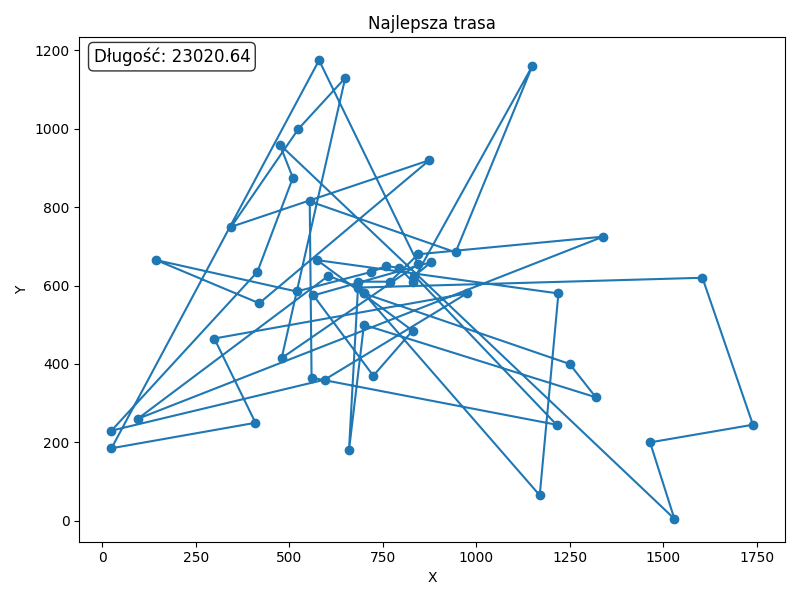
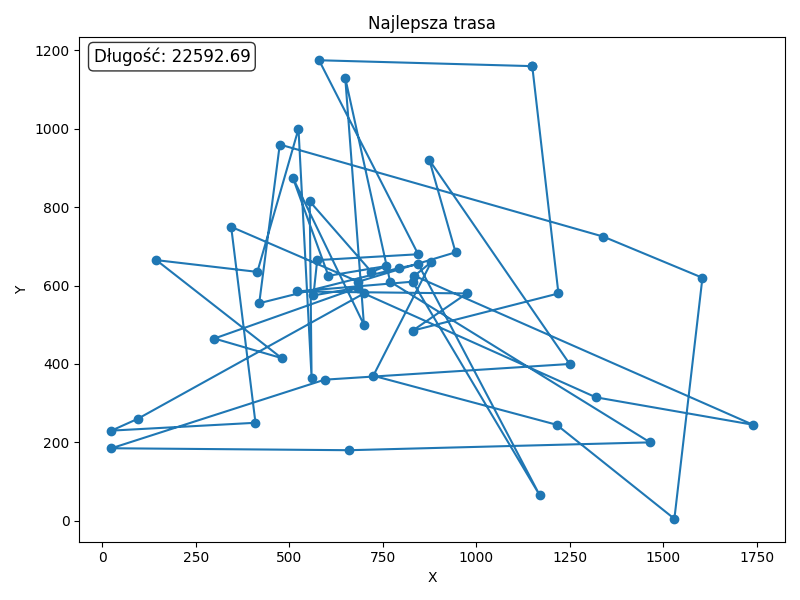
finish lab03

Changed region(s): [[0.125, 0.09, 0.9375, 0.87], [0.2188, 0.06, 0.3125, 0.12], [0.75, 0.6, 0.8125, 0.63]]

diff --git a/lab03/experiment_tsp.py b/lab03/experiment_tsp.py
@@ -6,7 +6,6 @@ import statistics
 import os
 import csv
 
-# Funkcja do uruchamiania eksperymentów
 def run_experiment(runs_per_alg=10):
     cities = sa_tsp.load_cities("berlin52.tsp")
 
@@ -18,7 +17,6 @@ def run_experiment(runs_per_alg=10):
 
     results = {}
 
-    # prepare results dir
     results_dir = os.path.join(os.path.dirname(__file__), 'results')
     os.makedirs(results_dir, exist_ok=True)
 
@@ -31,7 +29,6 @@ def run_experiment(runs_per_alg=10):
         for i in range(runs_per_alg):
             start_time = time.time()
 
-            # Wywołanie algorytmu z parametrami
             best_path, best_distance = algorithm(cities, **params)
 
             end_time = time.time()
@@ -49,7 +46,6 @@ def run_experiment(runs_per_alg=10):
         worst_distance = max(distances)
         best_path = best_paths[distances.index(best_distance)]
 
-        # zapisz wykres najlepszej trasy do pliku
         img_path = os.path.join(results_dir, f"{name}_best.png")
         save_plot(cities, best_path, img_path)
 
@@ -65,41 +61,25 @@ def run_experiment(runs_per_alg=10):
             "image": img_path
         }
 
-    # zapisz podsumowanie do CSV
     csv_path = os.path.join(results_dir, 'summary.csv')
     with open(csv_path, 'w', newline='') as csvfile:
         writer = csv.writer(csvfile)
-        writer.writerow(['Algorithm','Best','Average','Std','Worst','AvgTime(s)','MinTime(s)','MaxTime(s)','Image'])
+        writer.writerow(['Algorithm','Best','Average','Std','Worst','AvgTime(s)','MinTime(s)','MaxTime(s)'])
         for name, data in results.items():
-            writer.writerow([name, f"{data['best_distance']:.2f}", f"{data['average_distance']:.2f}", f"{data['std_distance']:.2f}", f"{data['worst_distance']:.2f}", f"{data['average_time']:.2f}", f"{data['min_time']:.2f}", f"{data['max_time']:.2f}", data['image']])
+            writer.writerow([name, f"{data['best_distance']:.2f}", f"{data['average_distance']:.2f}", f"{data['std_distance']:.2f}", f"{data['worst_distance']:.2f}", f"{data['average_time']:.2f}", f"{data['min_time']:.2f}", f"{data['max_time']:.2f}"])
 
     print(f"Wyniki zapisane w: {results_dir}")
     return results
 
 
-# Funkcja do zapisywania wykresu (obsługuje brak matplotlib)
 def save_plot(cities, path, filename):
-    try:
-        import matplotlib.pyplot as plt
-    except ImportError:
-        print("Brak pakietu 'matplotlib'. Aby zapisać wykresy zainstaluj zależności: pip install -r requirements.txt")
-        return
-    # Oblicz długość trasy (użycie funkcji z modułu sa_tsp)
-    try:
-        total_dist = sa_tsp.calculate_distance(cities, path)
-    except Exception:
-        # fallback: oblicz samodzielnie
-        total_dist = 0.0
-        for i in range(len(path)):
-            c1 = cities[path[i]]
-            c2 = cities[path[(i+1) % len(path)]]
-            total_dist += ((c1[0]-c2[0])**2 + (c1[1]-c2[1])**2)**0.5
+    import matplotlib.pyplot as plt
+    total_dist = sa_tsp.calculate_distance(cities, path)
 
     x = [cities[i][0] for i in path] + [cities[path[0]][0]]
     y = [cities[i][1] for i in path] + [cities[path[0]][1]]
     plt.figure(figsize=(8,6))
     plt.plot(x, y, marker='o')
-    # Dodaj opis z długością trasy w lewym górnym rogu
     plt.title('Najlepsza trasa')
     plt.xlabel('X')
     plt.ylabel('Y')
@@ -111,7 +91,6 @@ def save_plot(cities, path, filename):
     plt.close()
 
 
-# Funkcja do wizualizacji wyników
 def visualize_results(results, cities):
     for name, data in results.items():
         print(f"\nAlgorytm: {name}")

diff --git a/lab03/pso_tsp.py b/lab03/pso_tsp.py
@@ -1,7 +1,6 @@
 import math
 import random
 
-# Wczytanie danych z pliku berlin52.tsp
 def load_cities(file_path):
     cities = []
     with open(file_path, 'r') as file:
@@ -18,7 +17,6 @@ def load_cities(file_path):
                 cities.append((float(parts[1]), float(parts[2])))
     return cities
 
-# Funkcja obliczająca długość trasy
 def calculate_distance(cities, path):
     distance = 0
     for i in range(len(path)):
@@ -27,11 +25,9 @@ def calculate_distance(cities, path):
         distance += math.sqrt((city1[0] - city2[0])**2 + (city1[1] - city2[1])**2)
     return distance
 
-# Algorytm PSO dla TSP
 def pso_tsp(cities, num_particles, max_iter, inertia, cognitive, social):
     num_cities = len(cities)
 
-    # Inicjalizacja cząstek
     particles = [random.sample(range(num_cities), num_cities) for _ in range(num_particles)]
     velocities = [random.uniform(-1, 1) for _ in range(num_particles)]
     personal_best = [p[:] for p in particles]
@@ -42,8 +38,6 @@ def pso_tsp(cities, num_particles, max_iter, inertia, cognitive, social):
 
     for _ in range(max_iter):
         for i in range(num_particles):
-            # Prosty operator ruchu oparty na swapach (adaptacja PSO do permutacji)
-            # losowo wykonujemy kilka swapów zależnych od parametrów
             swaps = 1
             if random.random() < 0.1:
                 swaps = 2
@@ -51,28 +45,20 @@ def pso_tsp(cities, num_particles, max_iter, inertia, cognitive, social):
                 idx1, idx2 = random.sample(range(num_cities), 2)
                 particles[i][idx1], particles[i][idx2] = particles[i][idx2], particles[i][idx1]
 
-            # Obliczanie nowej odległości
             current_distance = calculate_distance(cities, particles[i])
 
-            # Aktualizacja najlepszego osobistego rozwiązania
             if current_distance < personal_best_distances[i]:
                 personal_best[i] = particles[i][:]
                 personal_best_distances[i] = current_distance
 
-            # Aktualizacja najlepszego globalnego rozwiązania
             if current_distance < global_best_distance:
                 global_best = particles[i][:]
                 global_best_distance = current_distance
 
     return global_best, global_best_distance
 
-# Wizualizacja trasy
 def plot_path(cities, path):
-    try:
-        import matplotlib.pyplot as plt
-    except ImportError:
-        print("Brak pakietu 'matplotlib'. Aby zobaczyć wykres zainstaluj zależności: pip install -r requirements.txt")
-        return
+    import matplotlib.pyplot as plt
     x = [cities[i][0] for i in path] + [cities[path[0]][0]]
     y = [cities[i][1] for i in path] + [cities[path[0]][1]]
     plt.plot(x, y, marker='o')

diff --git a/lab03/sa_tsp.py b/lab03/sa_tsp.py
@@ -1,7 +1,6 @@
 import math
 import random
 
-# Wczytanie danych z pliku berlin52.tsp
 def load_cities(file_path):
     cities = []
     with open(file_path, 'r') as file:
@@ -18,7 +17,6 @@ def load_cities(file_path):
                 cities.append((float(parts[1]), float(parts[2])))
     return cities
 
-# Funkcja obliczająca długość trasy
 def calculate_distance(cities, path):
     distance = 0
     for i in range(len(path)):
@@ -27,14 +25,12 @@ def calculate_distance(cities, path):
         distance += math.sqrt((city1[0] - city2[0])**2 + (city1[1] - city2[1])**2)
     return distance
 
-# Funkcja generująca sąsiada (swap dwóch miast)
 def generate_neighbor(path):
     new_path = path[:]
     i, j = random.sample(range(len(path)), 2)
     new_path[i], new_path[j] = new_path[j], new_path[i]
     return new_path
 
-# Algorytm wyżarzania symulowanego
 def simulated_annealing(cities, initial_temp, cooling_rate, min_temp):
     current_path = list(range(len(cities)))
     random.shuffle(current_path)
@@ -61,13 +57,8 @@ def simulated_annealing(cities, initial_temp, cooling_rate, min_temp):
 
     return best_path, best_distance
 
-# Wizualizacja trasy
 def plot_path(cities, path):
-    try:
-        import matplotlib.pyplot as plt
-    except ImportError:
-        print("Brak pakietu 'matplotlib'. Aby zobaczyć wykres zainstaluj zależności: pip install -r requirements.txt")
-        return
+    import matplotlib.pyplot as plt
     x = [cities[i][0] for i in path] + [cities[path[0]][0]]
     y = [cities[i][1] for i in path] + [cities[path[0]][1]]
     plt.plot(x, y, marker='o')